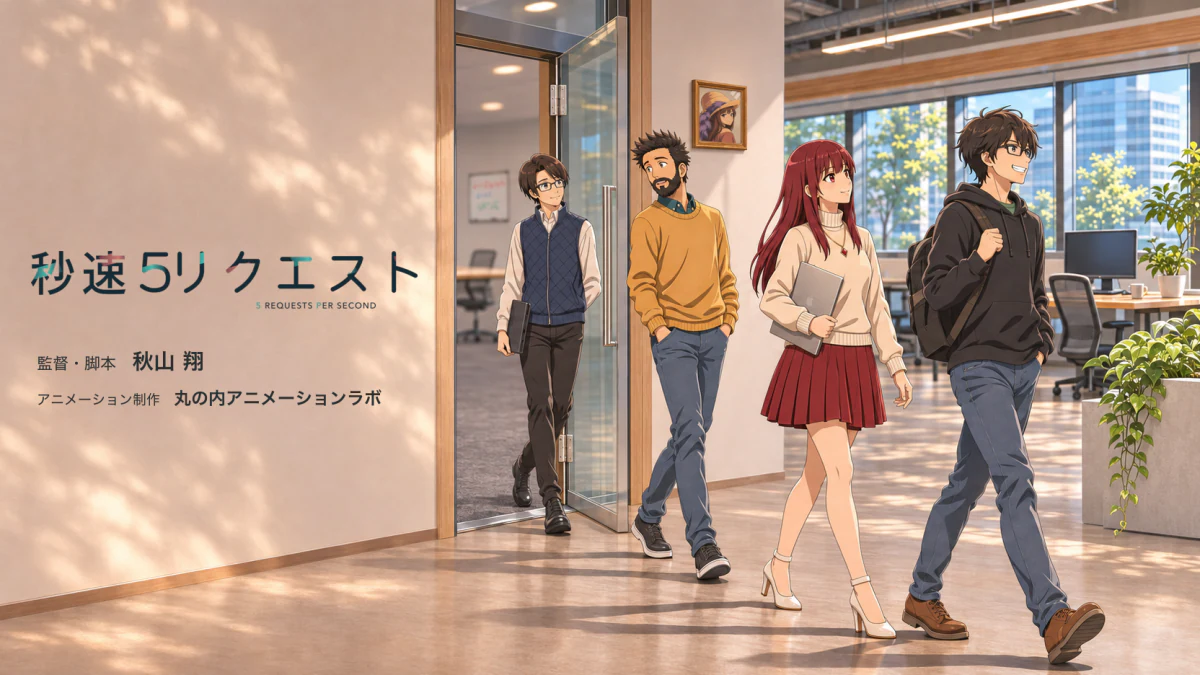
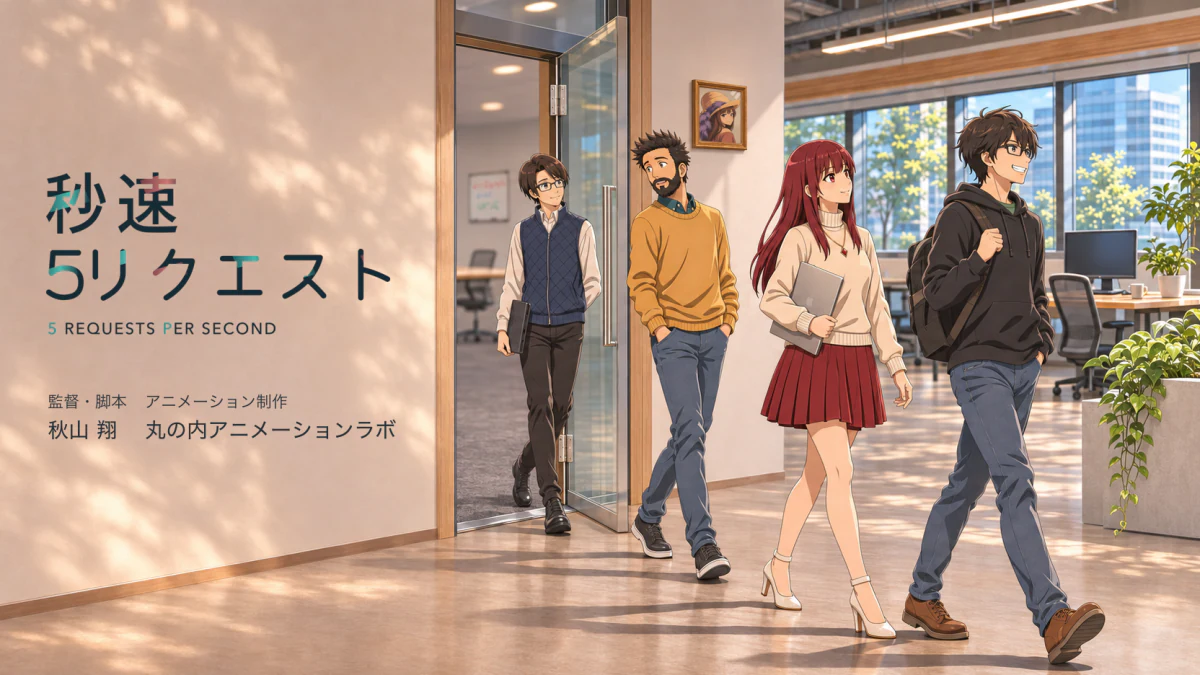
Recompose the landscape film title and billing for desktop and phone

Changed region(s): [[0.0308, 0.2489, 0.3392, 0.6533]]

diff --git a/app/home.css b/app/home.css
@@ -1,6 +1,11 @@
 /* Fit the complete one-sheet between the sticky header and its caption. */
 .poster-opening {
   --poster-width-per-height: 1.77777778;
+  --poster-screen: 100vh;
+  --poster-max-width: calc(
+    (var(--poster-screen) - var(--film-header-height) - 49px) *
+      var(--poster-width-per-height)
+  );
   display: grid;
   justify-items: center;
   color: #eee6db;
@@ -8,12 +13,7 @@
 .opening-poster {
   display: block;
   width: 100%;
-  max-width: calc(
-    (100vh - var(--film-header-height) - 49px) * var(--poster-width-per-height)
-  );
-  max-width: calc(
-    (100svh - var(--film-header-height) - 49px) * var(--poster-width-per-height)
-  );
+  max-width: var(--poster-max-width);
 }
 .opening-poster img {
   display: block;
@@ -42,6 +42,32 @@
   color: inherit;
   text-decoration: underline;
   text-underline-offset: 0.24em;
+}
+@supports (height: 100svh) {
+  .poster-opening {
+    --poster-screen: 100svh;
+  }
+}
+
+/* Align the controls with the lettering on the inset landscape print. */
+@media (orientation: landscape) {
+  .poster-opening {
+    grid-template-columns: min(100%, var(--poster-max-width));
+    justify-content: center;
+  }
+  .poster-caption {
+    padding-inline: 3.85%;
+    font-size: clamp(0.9375rem, 1.05vw, 1.0625rem);
+  }
+}
+
+@media (orientation: landscape) and (max-height: 500px) {
+  :root:has(.poster-opening) {
+    --film-header-height: 48px;
+  }
+  .site-shell:has(.poster-opening) .site-header .header-inner {
+    padding-block: 2px;
+  }
 }
 @media (max-aspect-ratio: 1/1) {
   .poster-opening {

diff --git a/app/Main.tsx b/app/Main.tsx
@@ -40,6 +40,12 @@ export default function Main({
         </h1>
         <picture className="opening-poster">
           <source
+            media="(orientation: landscape) and (max-height: 500px)"
+            srcSet="/static/images/startup-poster-landscape-compact.webp"
+            width={1200}
+            height={675}
+          />
+          <source
             media="(max-aspect-ratio: 1/1)"
             srcSet="/static/images/startup-poster-portrait-480.webp 480w, /static/images/startup-poster-portrait-768.webp 768w, /static/images/startup-poster-portrait-1024.webp 1024w"
             sizes="(max-aspect-ratio: 2/3) 100vw, 67vh"
